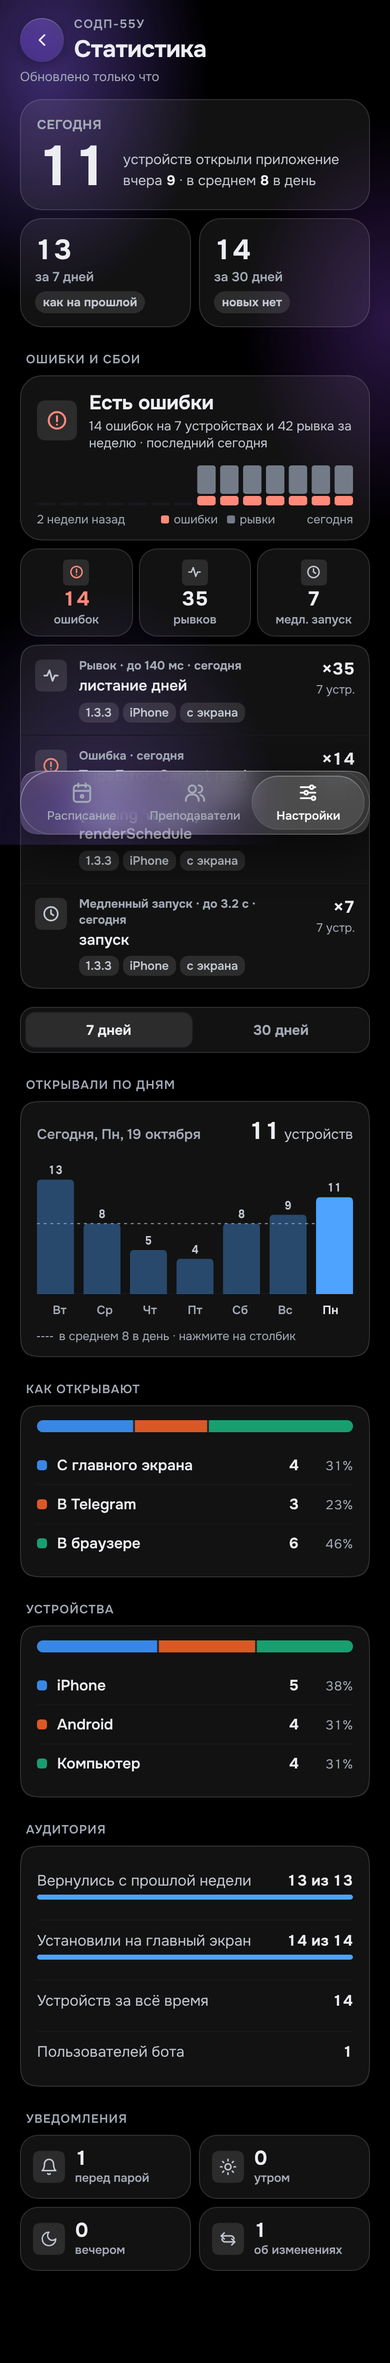
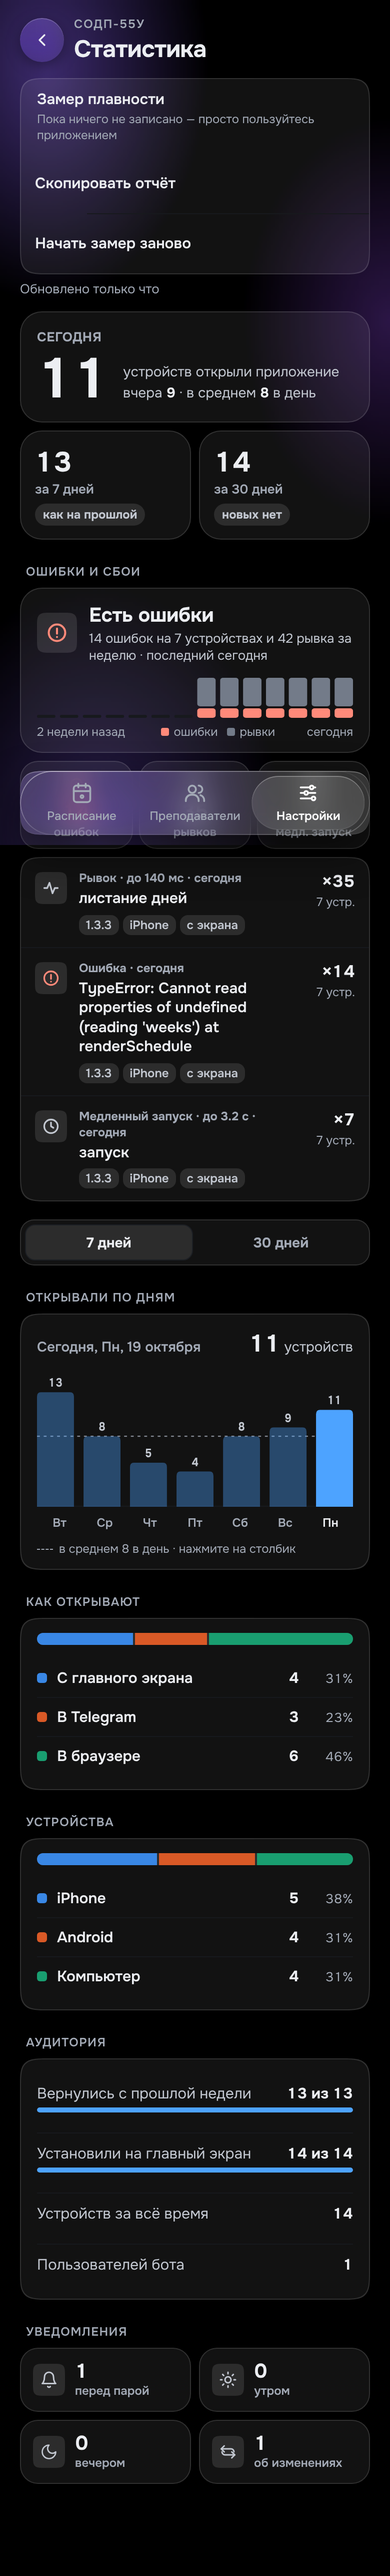
CI: v2.1.11 — замер плавности
Claude-Session: https://claude.ai/code/session_01QFXLJ7PdtcLLuGYNayX4Q7

diff --git a/index.html b/index.html
@@ -2243,7 +2243,7 @@ window.__appStart = () => {
   // Бот кладёт в адрес приложения: n=15.0.1.1 (минуты напоминания или 0, утро, вечер, изменения),
   // ts — когда настройки менялись, k — личный ключ для подписи изменений из приложения.
   const QS = new URLSearchParams(location.search);
-  const APP_LABEL = "v2.1.10";   // номер версии внизу «Настроек»
+  const APP_LABEL = "v2.1.11";   // номер версии внизу «Настроек»
   const TG_USER = (() => {
     try { return tg && tg.initDataUnsafe && tg.initDataUnsafe.user ? String(tg.initDataUnsafe.user.id) : ""; } catch (e) { return ""; }
   })();
@@ -2720,6 +2720,7 @@ window.__appStart = () => {
   // v2.1: подложка уезжающего экрана — его фон и тень (см. css/05: раньше это был #app::before)
   const appBg = (() => { const e = document.createElement("div"); e.id = "appbg"; e.setAttribute("aria-hidden", "true"); app.before(e); return e; })();
   function navLayers(entry) {
+    perfAct("переход");
     ROOT.classList.add("swiping", "nav-anim");
     const under = document.createElement("div");
     under.className = "under";
@@ -3417,6 +3418,7 @@ window.__appStart = () => {
     const backBtn = inTG ? "" : `<button class="btn icon-btn" data-act="back" aria-label="Назад">${I.left}</button>`;
     const upd = x && x.updated ? `Обновлено ${fmtAgo(x.updated)}` : "";
     let html = `<div class="top"><div style="display:flex;align-items:center;gap:10px">${backBtn}<div><div class="eyebrow">${esc((index && index.group) || "СОДП-55у")}</div><h1>Статистика</h1></div></div></div>`;
+    html += perfHTML();
     if (!x) { app.innerHTML = html + `<div class="empty"><div class="h">Сводки пока нет</div><div class="p">Бот выкладывает её раз в полчаса. Потяните экран вниз, чтобы проверить.</div></div>`; return; }
     const n = (v) => +v || 0;
     const dev = (k) => plural(k, "устройство", "устройства", "устройств");
@@ -4866,6 +4868,7 @@ window.__appStart = () => {
     barEl = bar;
     if (bar.classList.contains("vsmall") === barSmall) return;
     if (barSmall) barGeo(bar);
+    perfAct("шапка");
     if (fresh || REDUCED || !CAN_FLIP) {   // шапка только что нарисована — сразу нужный вид, без анимации
       bar.classList.add("bnoanim");
       bar.classList.toggle("vsmall", barSmall);
@@ -4918,6 +4921,10 @@ window.__appStart = () => {
     } else if (act === "srange") {
       const r = +el.dataset.v;
       if (r !== statsRange) { haptic("light"); statsRange = r; statsPick = -1; store.set("statsRange", String(r)); const y = window.scrollY; render(); window.scrollTo(0, y); }
+    } else if (act === "perfcopy") {
+      perfCopy(el);
+    } else if (act === "perfreset") {
+      PERF.reset(); haptic("light"); render();
     } else if (act === "stats") {
       haptic("light");
       statsPick = -1;
@@ -5043,6 +5050,7 @@ window.__appStart = () => {
   tabs.forEach((b) => b.addEventListener("click", () => {
     if (navBusy) return;   // пока экран едет, вкладки не переключаем
     const t = b.dataset.tab;
+    perfAct("вкладка");
     haptic("select");
     if (t === "schedule") {
       if (view === "schedule") goToday();
@@ -5112,6 +5120,7 @@ window.__appStart = () => {
   // ---------------- раскрытие карточки пары ----------------
   // Меняем только эту карточку и плавно тянем её высоту — остальной экран не перерисовываем
   function toggleCard(key) {
+    perfAct("карточка");
     opened.has(key) ? opened.delete(key) : opened.add(key);
     haptic("select");
     const isTeacher = view === "teacher";
@@ -6448,6 +6457,7 @@ window.__appStart = () => {
     const W = () => app.getBoundingClientRect().width || innerWidth;
     const unlockPager = () => { if (lockedPager) { lockedPager.style.overflowX = ""; lockedPager = null; } };
     function begin() {
+      perfAct("свайп назад");
       ROOT.classList.add("swiping");
       const e = stack[stack.length - 1];
       under = document.createElement("div");
@@ -6634,6 +6644,135 @@ window.__appStart = () => {
     const sync = () => { try { Gesture.zones(app); Gesture.edge(!inTG && stack.length > 0); } catch (e) { /* без этого — как раньше */ } };
     onAppDom(sync);
     sync();
+  }
+  // ---------------- замер плавности (v2.1.11) ----------------
+  // Пока что-то движется (касание, листание, прокрутка, переход, раскрытие карточки), приложение считает кадры:
+  // сколько их было, сколько длиннее 25 и 40 мс, самый долгий и в какой части движения он был, сколько «лишних»
+  // миллисекунд набежало сверх ровных кадров. Отдельно — сколько длился сам обработчик нажатия.
+  // Всё складывается по «экран · действие» в хранилище телефона; в «Статистике» — кнопка «Скопировать отчёт».
+  // В покое замер не работает вообще; во время движения — один requestAnimationFrame на кадр.
+  const PERF = (() => {
+    const KEY = "perf2";
+    let box = {};
+    try { box = JSON.parse(store.get(KEY) || "{}") || {}; } catch (e) { box = {}; }
+    if (!box.v) box = { v: 1, since: Date.now(), acts: {}, taps: {}, gaps: [0, 0, 0, 0, 0, 0] };
+    let saveT = 0;
+    const save = () => { if (saveT) return; saveT = setTimeout(() => { saveT = 0; store.set(KEY, JSON.stringify(box)); }, 1500); };
+    // чем выше в списке, тем точнее название: если за одно движение сработало несколько — берём самое точное
+    const RANK = ["касание", "прокрутка", "прокрутка списка", "листание дней", "шапка", "вкладка", "карточка", "переход", "свайп назад"];
+    let cur = null, raf = 0, lastTs = 0, until = 0;
+    const scr = () => (typeof view === "string" ? view : "?");
+    function act(label) {
+      if (document.hidden || !window.requestAnimationFrame) return;
+      const now = performance.now();
+      until = Math.max(until, now + 450);
+      if (cur && RANK.indexOf(label) > RANK.indexOf(cur.label)) cur.label = label;
+      if (!cur) cur = { label, scr: scr(), t0: now, frames: 0, f25: 0, f40: 0, max: 0, maxAt: 0, extra: 0, end: now,
+        hero: !!app.querySelector(".hero"), anims: 0 };
+      if (!raf) { lastTs = 0; raf = requestAnimationFrame(step); }
+    }
+    function step(ts) {
+      raf = 0;
+      if (!cur) return;
+      if (document.hidden) { cur = null; return; }   // свернули посреди движения — не в счёт
+      if (lastTs) {
+        const g = ts - lastTs;
+        cur.frames++;
+        if (g > 25) cur.f25++;
+        if (g > 40) cur.f40++;
+        if (g > cur.max) { cur.max = g; cur.maxAt = lastTs - cur.t0; }
+        if (g > 20) cur.extra += g - 16.7;
+        const b = g < 12 ? 0 : g < 20 ? 1 : g < 25 ? 2 : g < 40 ? 3 : g < 70 ? 4 : 5;
+        box.gaps[b]++;
+        cur.end = ts;
+      }
+      lastTs = ts;
+      if (cur.frames === 2) { try { cur.anims = document.getAnimations ? document.getAnimations().length : 0; } catch (e) { /* нет */ } }
+      if (ts < until) raf = requestAnimationFrame(step);
+      else flush();
+    }
+    function flush() {
+      const c = cur;
+      cur = null;
+      if (!c || c.frames < 3) return;
+      const k = `${c.scr} · ${c.label}`;
+      const a = box.acts[k] || (Object.keys(box.acts).length < 40 ? (box.acts[k] = { n: 0, fr: 0, f25: 0, f40: 0, max: 0, ex: 0, pos: [0, 0, 0], hero: 0, anims: 0 }) : null);
+      if (!a) return;
+      const span = Math.max(1, c.end - c.t0), p = c.maxAt / span;
+      a.n++; a.fr += c.frames; a.f25 += c.f25; a.f40 += c.f40; a.ex += Math.round(c.extra);
+      a.max = Math.max(a.max, Math.round(c.max));
+      if (c.max > 25) a.pos[p < 0.3 ? 0 : p > 0.75 ? 2 : 1]++;
+      if (c.hero) a.hero++;
+      a.anims = Math.max(a.anims, c.anims);
+      save();
+    }
+    // нажатия: сколько длился обработчик (от первого до последнего слушателя у окна)
+    let tapT = 0, tapName = "";
+    window.addEventListener("click", (e) => {
+      tapT = performance.now();
+      const t = e.target && e.target.closest && e.target.closest("[data-act], [data-tab]");
+      tapName = `${scr()} · ${t ? (t.dataset.act || "вкладка " + t.dataset.tab) : "—"}`;
+    }, true);
+    window.addEventListener("click", () => {
+      if (!tapT) return;
+      const d = performance.now() - tapT;
+      tapT = 0;
+      const r = box.taps[tapName] || (Object.keys(box.taps).length < 30 ? (box.taps[tapName] = [0, 0, 0]) : null);
+      if (!r) return;
+      r[0]++; r[1] += Math.round(d * 10) / 10; r[2] = Math.max(r[2], Math.round(d));
+      save();
+    });
+    // что считать движением
+    document.addEventListener("touchstart", () => act("касание"), { capture: true, passive: true });
+    document.addEventListener("touchmove", () => act("касание"), { capture: true, passive: true });
+    document.addEventListener("scroll", (e) => {
+      const t = e.target;
+      act(t === document || t === document.documentElement ? "прокрутка" : t && t.matches && t.matches("[data-pager]") ? "листание дней" : "прокрутка списка");
+    }, { capture: true, passive: true });
+    function report() {
+      const lines = [];
+      const ua = navigator.userAgent, ios = (ua.match(/OS (\d+)_(\d+)/) || []).slice(1).join(".") || "?";
+      const g = box.gaps, all = g.reduce((s, x) => s + x, 0) || 1;
+      const hz = g[0] > g[1] ? "120 Гц" : "60 Гц";
+      const d = (t) => { const x = new Date(t); return `${String(x.getDate()).padStart(2, "0")}.${String(x.getMonth() + 1).padStart(2, "0")} ${String(x.getHours()).padStart(2, "0")}:${String(x.getMinutes()).padStart(2, "0")}`; };
+      lines.push(`Отчёт плавности · ${typeof APP_LABEL === "string" ? APP_LABEL : "?"} · iOS ${ios} · ${screen.width}×${screen.height}@${window.devicePixelRatio || 1} · ${hz} · ${STANDALONE ? "ярлык" : inTG ? "Telegram" : "браузер"} · ${d(box.since)} – ${d(Date.now())}`);
+      lines.push(`кадры: <12 мс ${g[0]} · 12–20 ${g[1]} · 20–25 ${g[2]} · 25–40 ${g[3]} · 40–70 ${g[4]} · >70 ${g[5]} (длиннее 25 мс — ${Math.round((g[3] + g[4] + g[5]) / all * 1000) / 10}%)`);
+      lines.push("");
+      lines.push("экран · действие | раз | кадров | >25 мс | >40 мс | макс | где макс н/с/к | лишних мс | с «Сейчас» | анимаций");
+      const acts = Object.entries(box.acts).sort((a, b) => b[1].ex - a[1].ex);
+      for (const [k, a] of acts) lines.push(`${k} | ${a.n} | ${a.fr} | ${a.f25} | ${a.f40} | ${a.max} | ${a.pos.join("/")} | ${a.ex} | ${a.hero} | ${a.anims}`);
+      lines.push("");
+      lines.push("нажатие (экран · кнопка) | раз | среднее мс | макс мс");
+      const taps = Object.entries(box.taps).sort((a, b) => b[1][2] - a[1][2]);
+      for (const [k, r] of taps) lines.push(`${k} | ${r[0]} | ${Math.round(r[1] / r[0] * 10) / 10} | ${r[2]}`);
+      return lines.join("\n");
+    }
+    function reset() { box = { v: 1, since: Date.now(), acts: {}, taps: {}, gaps: [0, 0, 0, 0, 0, 0] }; store.set(KEY, JSON.stringify(box)); }
+    return { act, report, reset, count: () => Object.values(box.acts).reduce((s, a) => s + a.n, 0) };
+  })();
+  window.perfReport = () => PERF.report();   // для проверки
+  function perfAct(label) { try { PERF.act(label); } catch (e) { /* замер не должен ничего ломать */ } }
+  function perfHTML() {
+    const n = PERF.count();
+    return `<div class="list" style="margin:14px 0 6px"><div class="srow"><div class="body"><span class="nm">Замер плавности</span>
+      <span class="sub">${n ? `Записано движений: ${n}` : "Пока ничего не записано — просто пользуйтесь приложением"}</span></div></div>
+      <button class="item" data-act="perfcopy"><span class="body"><span class="nm">Скопировать отчёт</span></span></button>
+      <button class="item" data-act="perfreset"><span class="body"><span class="nm">Начать замер заново</span></span></button></div>`;
+  }
+  async function perfCopy(btn) {
+    const text = PERF.report();
+    let ok = false;
+    try { await navigator.clipboard.writeText(text); ok = true; } catch (e) { /* ниже — запасной способ */ }
+    if (!ok) {
+      const ta = document.createElement("textarea");
+      ta.value = text; ta.setAttribute("readonly", ""); ta.style.cssText = "position:fixed;left:0;top:0;opacity:0;";
+      document.body.appendChild(ta); ta.select(); ta.setSelectionRange(0, text.length);
+      try { ok = document.execCommand("copy"); } catch (e) { ok = false; }
+      ta.remove();
+    }
+    const nm = btn && btn.querySelector(".nm");
+    if (nm) { nm.textContent = ok ? "Скопировано — вставьте в чат" : "Не удалось скопировать"; setTimeout(() => { nm.textContent = "Скопировать отчёт"; }, 2500); }
+    haptic(ok ? "light" : "heavy");
   }
 };
 window.__boot();
